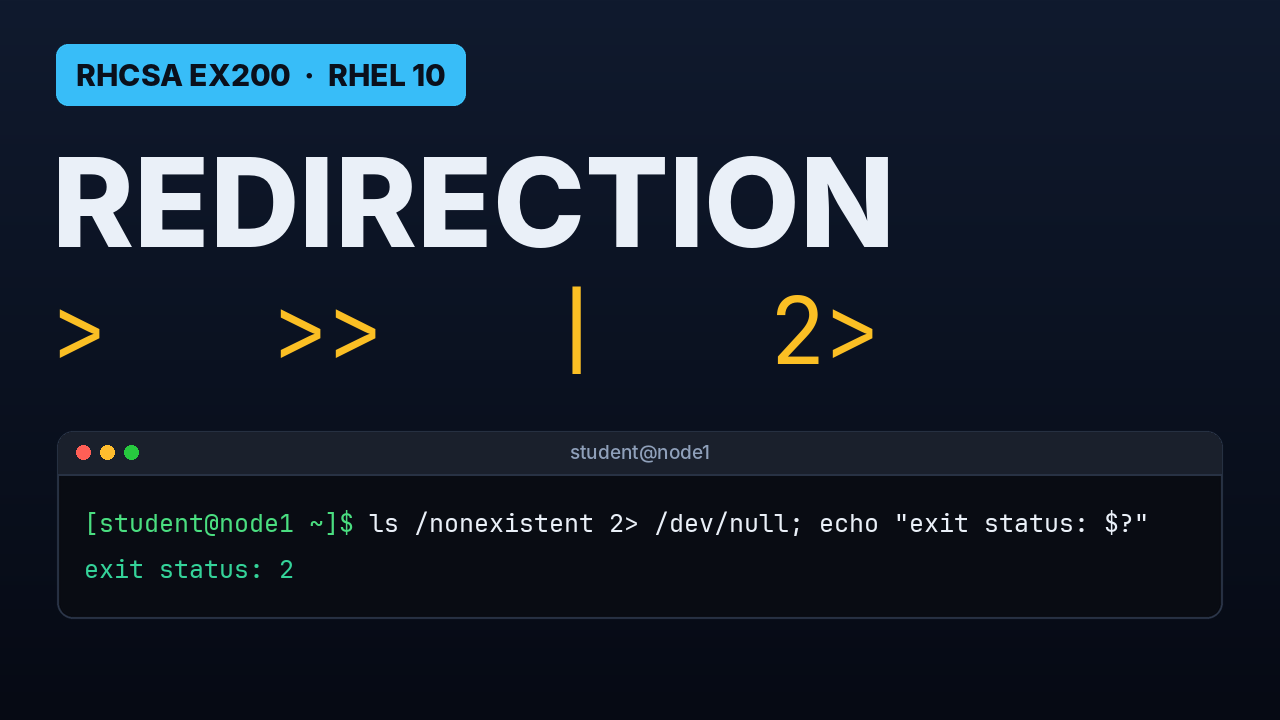
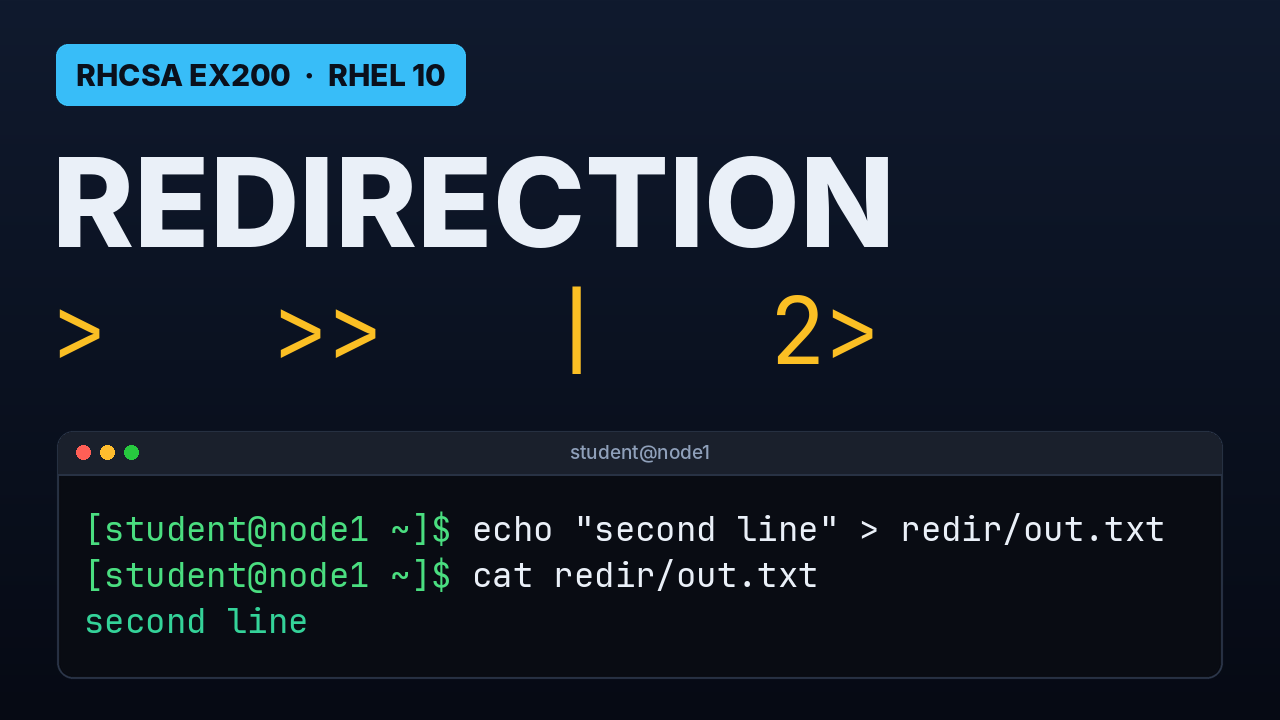
N02: simplified video assets
Claude-Session: https://claude.ai/code/session_0151P7s6tW47T72yiSeP9atn

Changed region(s): [[0.0625, 0.7028, 0.9062, 0.825], [0.0625, 0.8556, 0.25, 0.8861]]

diff --git a/docs/n02-redirection/commands.md b/docs/n02-redirection/commands.md
@@ -13,3 +13,14 @@
 | `cmd \| tee file` | write to file and show on screen |
 
 Stream numbers: 0 = stdin, 1 = stdout, 2 = stderr. Order matters: `> file 2>&1` works, `2>&1 > file` does not send errors to the file.
+
+## New commands used in the video
+| Command | Meaning |
+|---|---|
+| `mkdir name` | make a directory |
+| `echo "text"` | print text on the screen |
+| `cat file` | show the contents of a file |
+| `head -n 5` | show only the first 5 lines |
+| `wc -l` | count lines |
+| `tee file` | write to a file and also show on screen |
+| `uptime -p` | how long the machine has been up |

diff --git a/docs/n02-redirection/README.md b/docs/n02-redirection/README.md
@@ -8,6 +8,7 @@ Companion notes for the video. Not affiliated with or endorsed by Red Hat.
 Use input-output redirection (>, >>, |, 2>, etc.)
 
 ## What the video covers
+0. One command per line, and every new command is explained (mkdir, echo, cat, head, wc, tee).
 1. The three streams: 0 standard input, 1 standard output, 2 standard error.
 2. `>` writes to a file and replaces it; `>>` appends.
 3. `|` sends the output of one command to the input of the next.
